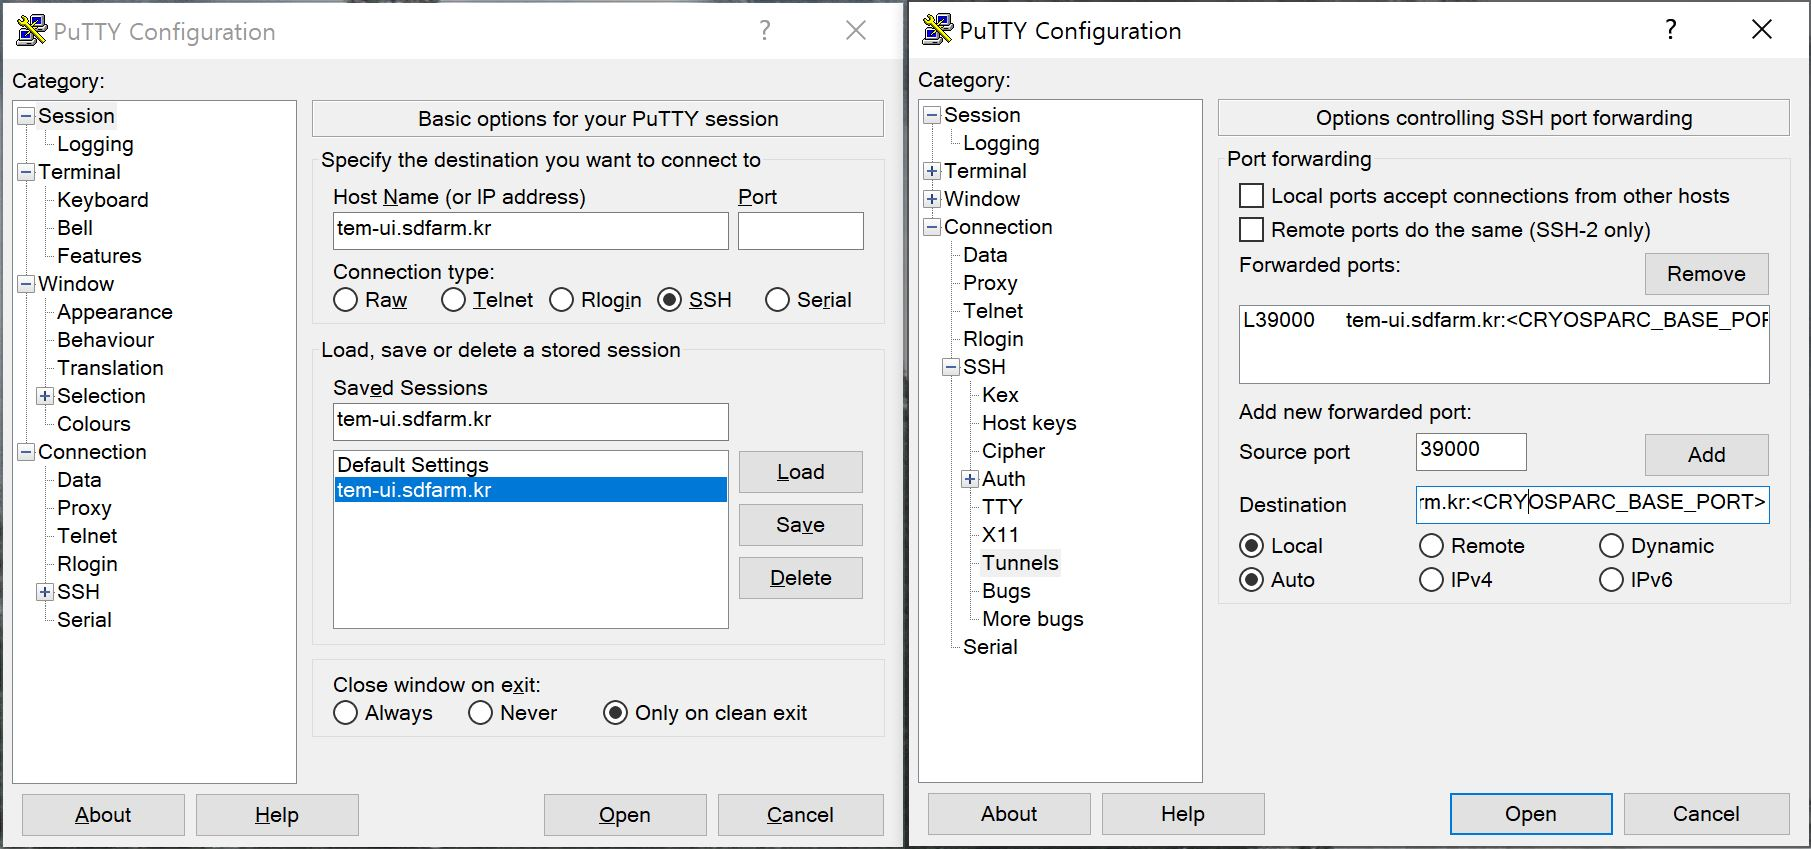
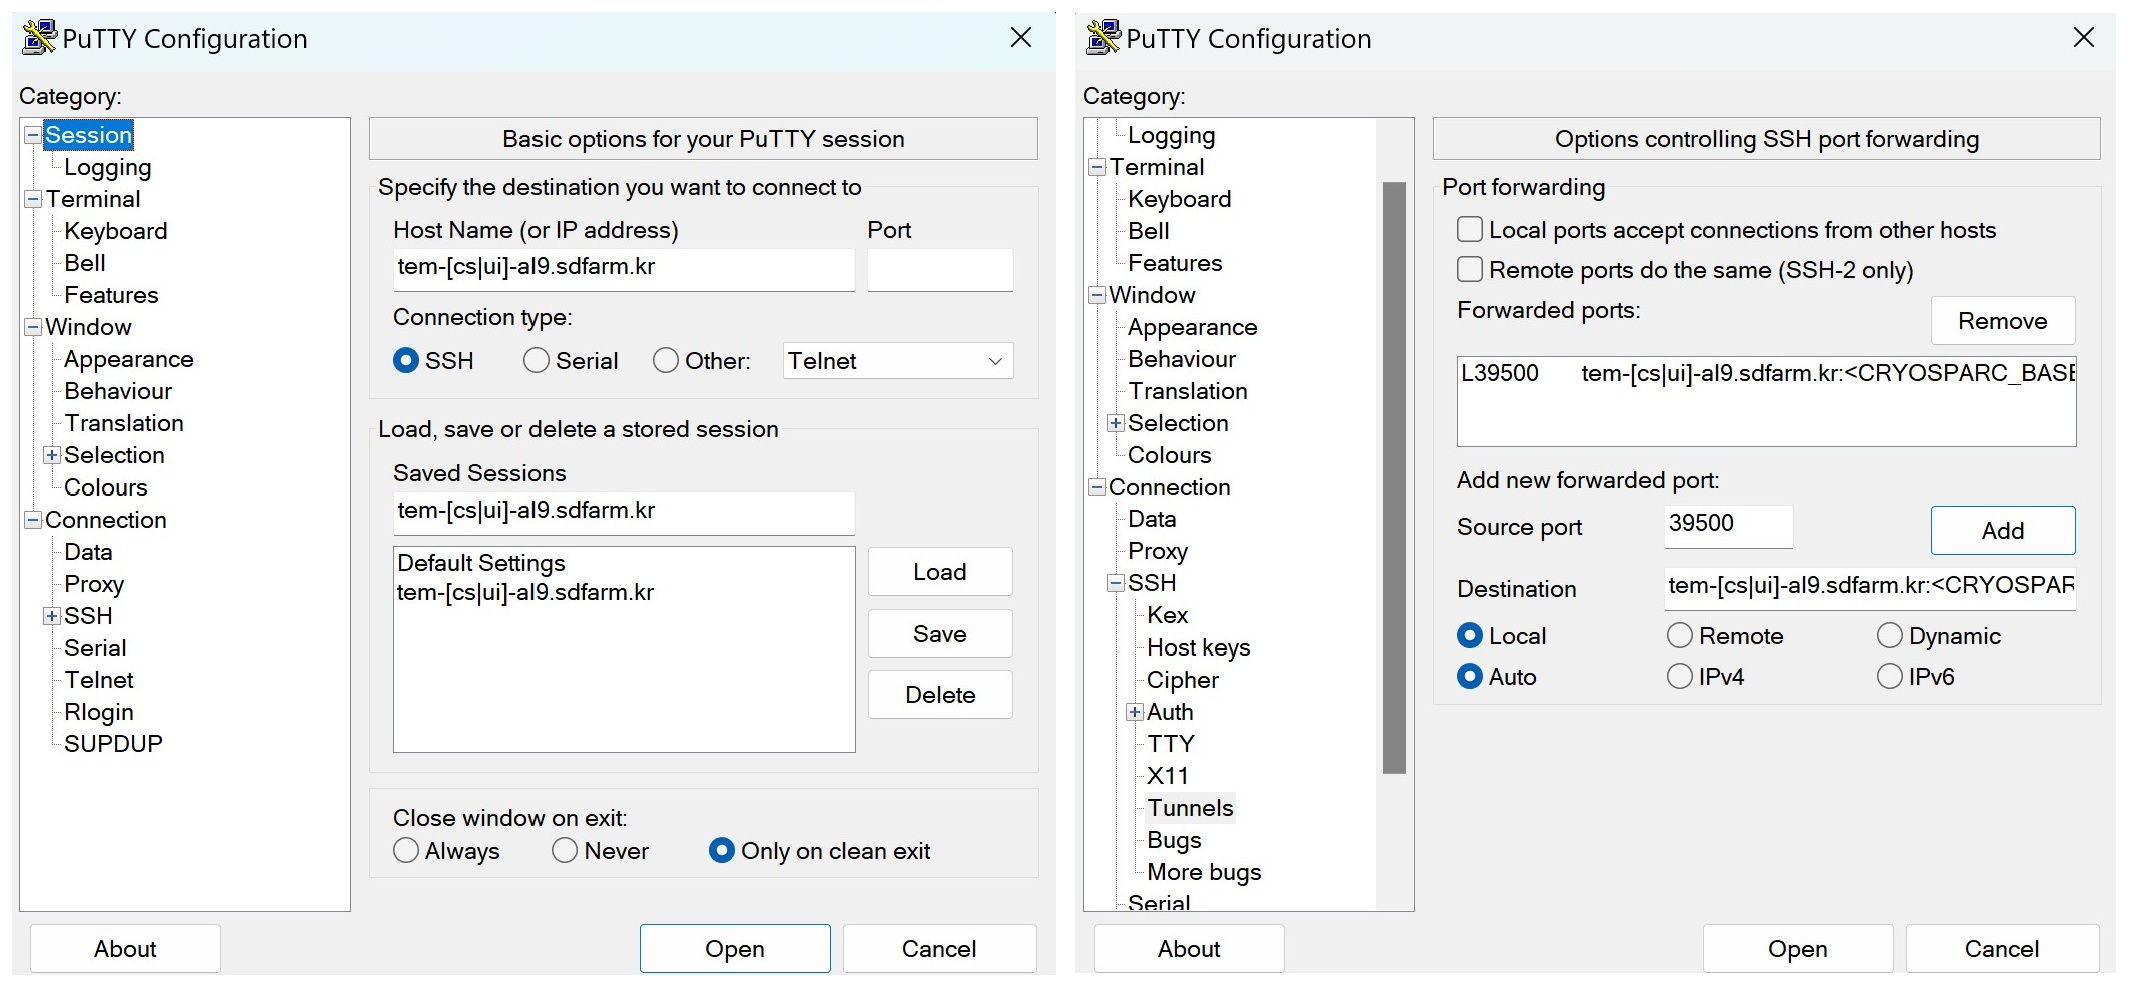
updated

diff --git a/docs/apps/cryosparc.md b/docs/apps/cryosparc.md
@@ -247,7 +247,7 @@ Now, open your browser (Chrome/Firefox/Safari recommended) and navigate to [http
 
     You must use **CRYOSPARC_BASE_PORT** for the 'Remote server' port section.   
 
-![mobaxterm-tunnel](../images/mobaxterm-tunnel1-el7.JPG)
+![mobaxterm-tunnel](../images/mobaxterm-tunnel-al9.jpg)
 
 Now, open your browser (Chrome/Firefox/Safari recommended) and navigate to [http://localhost:39500](http://localhost:39500). You should be presented with the cryoSPARC login page.
 
@@ -262,7 +262,7 @@ Now, open your browser (Chrome/Firefox/Safari recommended) and navigate to [http
     You must use **tem-[cs|ui]-al9.sdfarm.kr:CRYOSPARC_BASE_PORT** for the 'Destination' field. 
 
 
-![putty-tunnel](../images/putty-tunnel.JPG)
+![putty-tunnel](../images/putty-tunnel.jpg)
 
 Now, open your browser (Chrome/Firefox/Safari recommended) and navigate to [http://localhost:39500](http://localhost:39500). 
 You should be presented with the CryoSPARC login page.
